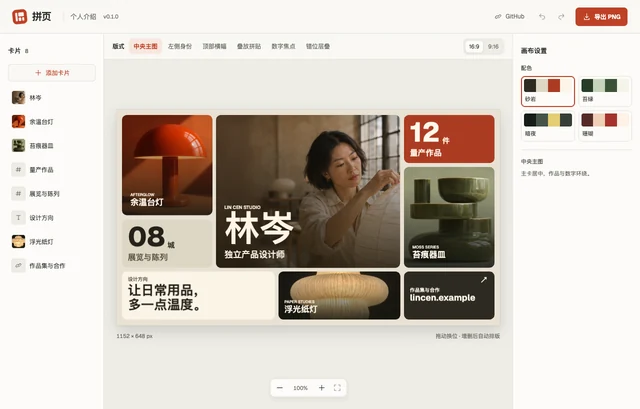
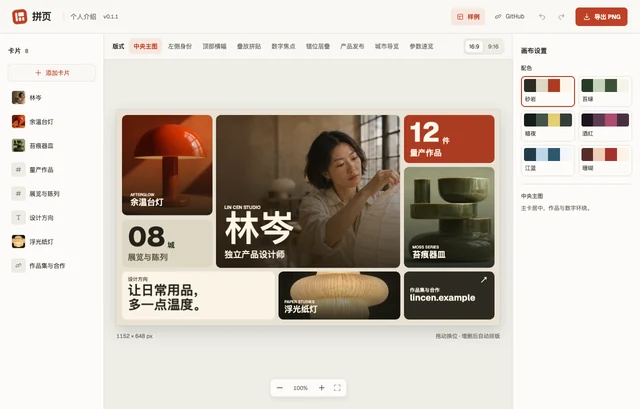
Update Pingye example and layout details

diff --git a/README.md b/README.md
@@ -9,7 +9,7 @@
 
 | 项目 | 预览 | 简介 | 链接 |
 |---|---|---|---|
-| 拼页 · Pingye | <img width="320" alt="拼页个人海报编辑器" src="./thumbs/portfolio-pingye.webp"> | 把照片、作品和成绩拼成个人海报，支持六种版式、图片裁剪和高清 PNG 导出。 | [Demo](https://xiaosang.cc/pingye/) · [Repo](https://github.com/holynova/pingye) |
+| 拼页 · Pingye | <img width="320" alt="拼页个人海报编辑器" src="./thumbs/portfolio-pingye.webp"> | 用九种版式制作个人海报、产品速览或城市导览，支持图片裁剪和高清 PNG 导出。 | [Demo](https://xiaosang.cc/pingye/) · [Repo](https://github.com/holynova/pingye) |
 | 破框 · Photo Breakout | <img width="320" alt="破框照片编辑器的桌面工作台" src="./thumbs/portfolio-photo-breakout.webp"> | 本地自动抠像，给人物身后加上白色网格或竖格，再导出 PNG。 | [Demo](https://xiaosang.cc/photo-breakout/) · [Repo](https://github.com/holynova/photo-breakout) |
 | 照片足迹 · Photo Atlas | <img width="320" alt="照片足迹的城市地图与地球仪" src="./thumbs/portfolio-photo-atlas.webp"> | 扫描本地照片，生成城市足迹地图、跨年照片报告和足迹分享卡。 | [Demo](https://xiaosang.cc/photo-atlas/) · [Repo](https://github.com/holynova/photo-atlas) |
 | X 书签回看 · X Bookmark Recall | <img width="320" alt="X 书签回看时间线与扩展弹窗" src="./thumbs/portfolio-x-bookmark-recall.webp"> | 从 X 书签页导入收藏，在推荐首页顶部和时间线里重新读到。 | [Demo](https://xiaosang.cc/x-bookmark-recall/) · [Repo](https://github.com/holynova/x-bookmark-recall) |
